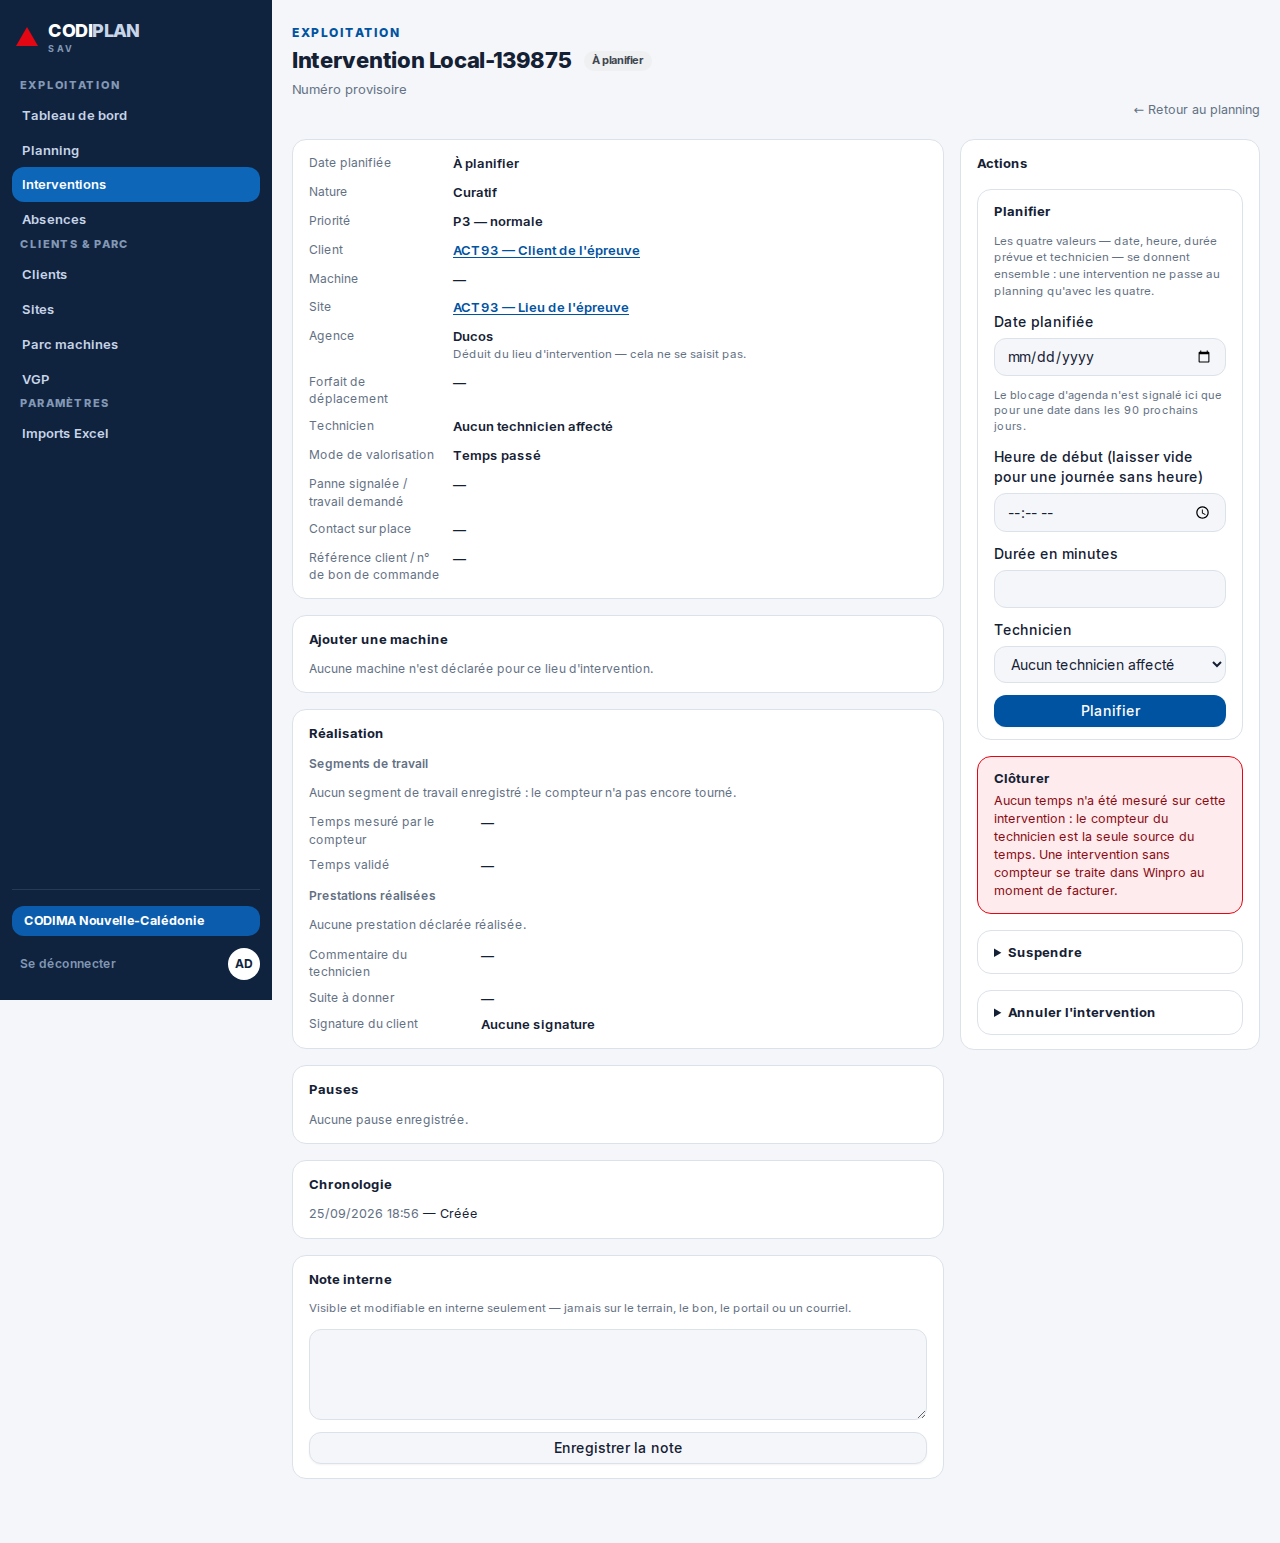
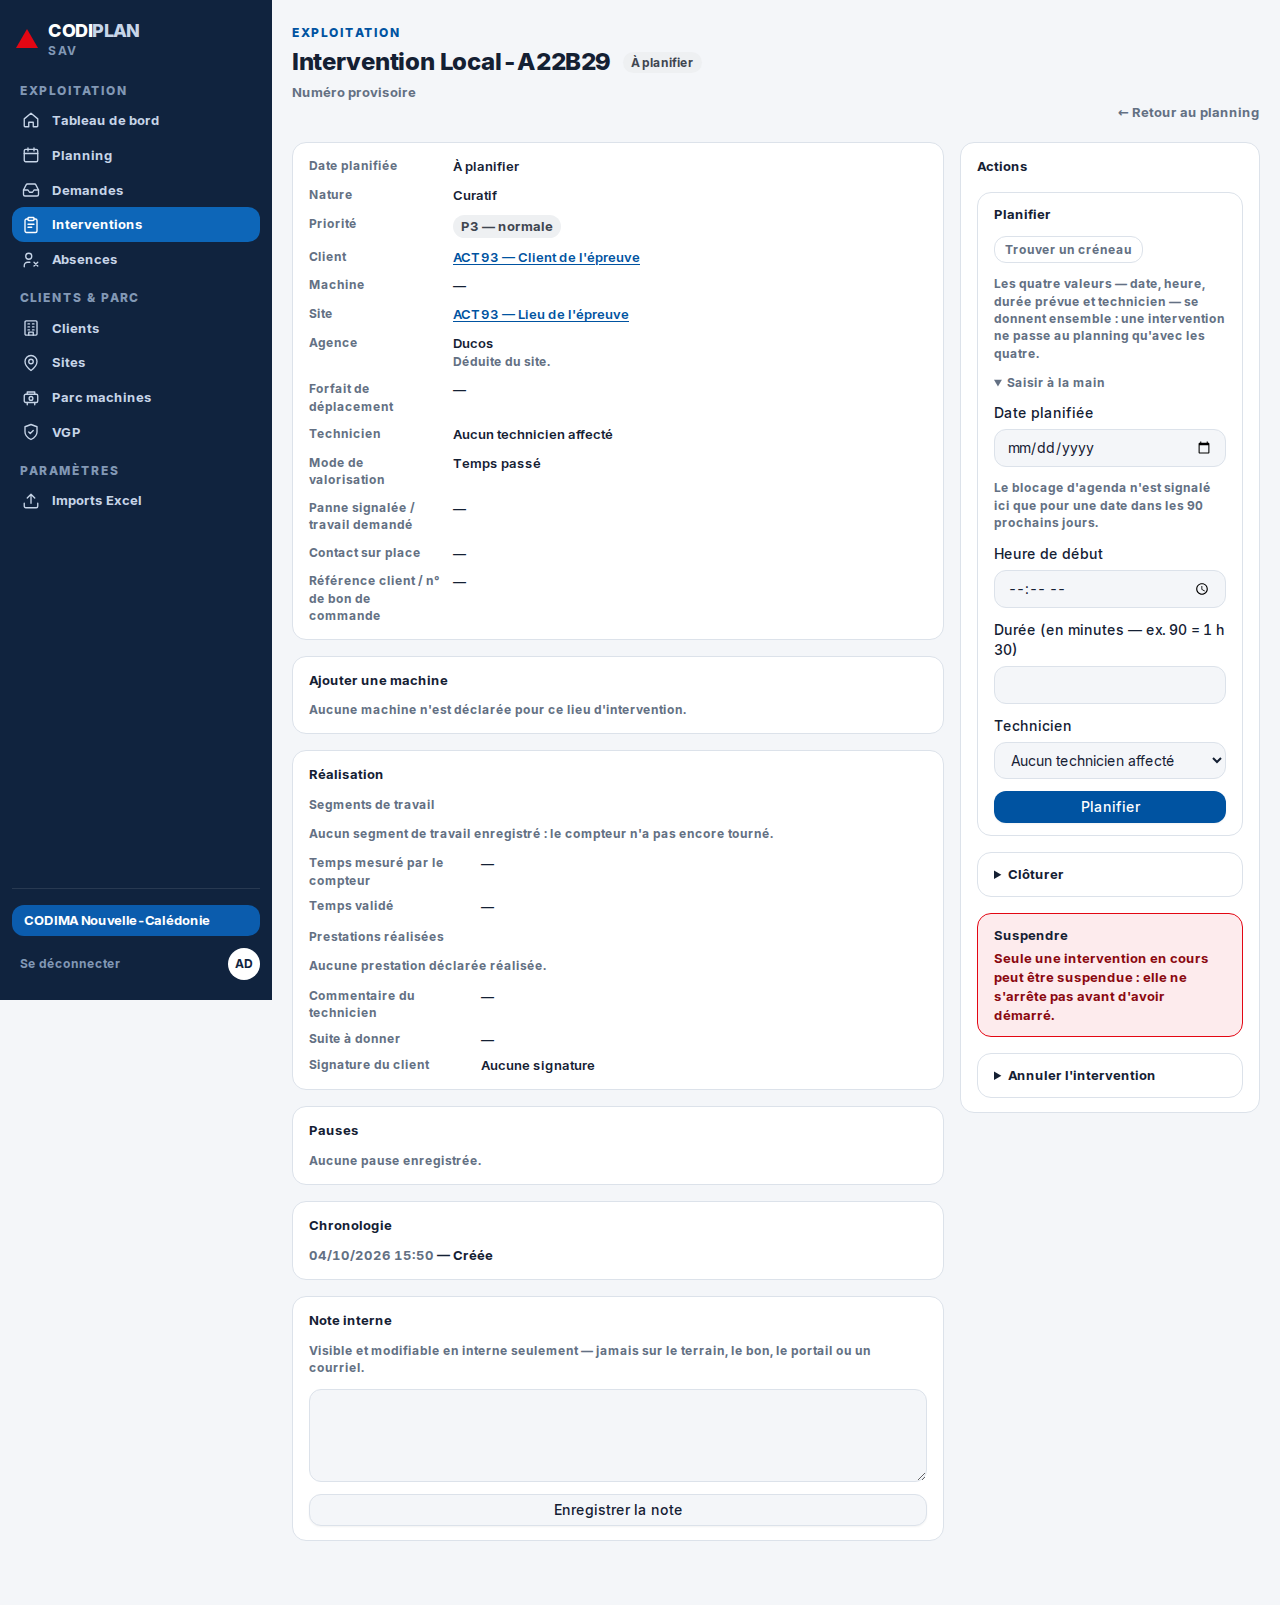
9DF-TP-CY2-MATRICE-D8 — bascule des épreuves bout en bout vers la matrice D8
fiche-intervention.spec.ts : une CLÔTURÉE n'offre plus d'Annuler (D160,
CLOTUREE terminale) ; une PLANIFIÉE refuse « Suspendre » (QT-4, pas de
suspension avant démarrage).

fiche-actions.spec.ts : la moitié « Suspendre replié et fonctionnel » de
l'épreuve 93-FICHE-ACTIONS ne peut plus se démontrer sur une « a_planifier »
(D8 le refuse désormais) — portée par une seconde fixture EN_COURS, qui n'a
aucune action principale et replie donc Suspendre comme l'ancienne rédaction
le montrait (à tort) sur a_planifier.

interventions-2.spec.ts : le scénario des deux pauses successives amène
désormais son intervention à EN_COURS avant chaque suspension, par la seule
chaîne que D8 permet (la création via /interventions/nouvelle ne pose ni
date ni créneau, donc aucune des deux « Reprise » ne retombe au même point).

rapport-terrain.spec.ts : le saut direct affectee → terminee (pour atteindre
le bon d'intervention) passe désormais par EN_COURS.

Nouveau : tests/e2e/9df-tp-cy2-matrice-d8.spec.ts — « Démarrer » ne
s'affiche plus sur une À planifier déplanifiée (technicien conservé,
SAV-05), côté terrain.

Les ~80 échecs observés sur une exécution complète de la suite (fullyParallel)
ne reproduisent PAS individuellement (vérifié sur un échantillon touchant
mise en page, VGP, écrans, courriels, saisie gardée) : pollution de scène
partagée entre fichiers exécutés en parallèle (PIEGE CONNU), sans lien avec
ce lot — voir la passation.

diff --git a/tests/e2e/9df-tp-cy2-matrice-d8.spec.ts b/tests/e2e/9df-tp-cy2-matrice-d8.spec.ts
@@ -1,0 +1,136 @@
+import { PrismaClient } from "@prisma/client";
+import { expect, test, type Page } from "@playwright/test";
+
+import { uuidv7 } from "@/lib/db/uuid";
+import { fr } from "@/lib/i18n";
+
+import { urlAdministration } from "./setup/base";
+import { reperesDeLaScene } from "./setup/reperes";
+import { COMPTE_TECHNICIEN_EPREUVE, MOT_DE_PASSE_EPREUVE } from "./setup/scene";
+
+/**
+ * 9DF-TP-CY2-MATRICE-D8 (04/10/2026, QT-4, D160) — « DÉMARRER » NE PART QUE DE
+ * CE QUE D8 PERMET, CÔTÉ TERRAIN.
+ *
+ * ## CE QUE CE FICHIER MESURE, ET QUE RIEN D'AUTRE NE MESURE
+ *
+ * Les scénarios unitaires (`peutDemarrerLeCompteur`) et d'isolation
+ * (`intervention.test.ts`) prouvent que le serveur et la base refusent la
+ * transition `A_PLANIFIER → EN_COURS`. Ils ne peuvent pas prouver que
+ * **l'écran du terrain ne propose pas un départ que la base refuserait** —
+ * c'est le cas d'une intervention DÉPLANIFIÉE (SAV-05) : le technicien reste
+ * affecté, le créneau part, le statut retombe à « À planifier », et la fiche
+ * terrain reste atteignable (seule « Planifiée » est écartée avant d'y
+ * arriver).
+ *
+ * ## SA PROPRE SCÈNE, PRÉFIXÉE `9DF-`
+ *
+ * Créée en `beforeAll`, supprimée en `afterAll` — AUCUNE ligne n'est ajoutée
+ * au semis, et rien n'est écrit sur `SCENE.*` (`tests/e2e/setup/scene.ts`).
+ * Le technicien, lui, est une identité DU SEMIS (`garnier@codima.test`,
+ * Ducos) : il faut un compte dont on connaisse le mot de passe pour se
+ * connecter côté terrain.
+ */
+
+// ÉCRIT EN BASE DANS `beforeAll`, SANS `ON CONFLICT` (gardien
+// `tests/unit/e2e-mise-en-scene.test.ts`) : la série évite que deux workers
+// ne rejouent ce `beforeAll` en même temps sur la même ligne.
+test.describe.configure({ mode: "serial" });
+
+const CLIENT_9DF = uuidv7();
+const SITE_9DF = uuidv7();
+const INTERVENTION_9DF_A_PLANIFIER = uuidv7();
+
+function admin(): PrismaClient {
+  return new PrismaClient({
+    datasources: { db: { url: urlAdministration() } },
+  });
+}
+
+test.beforeAll(async () => {
+  const reperes = await reperesDeLaScene();
+  const client = admin();
+  try {
+    const agence = await client.agence.findFirstOrThrow({
+      where: { societe_id: reperes.societeId, code: "DUCOS" },
+      select: { id: true },
+    });
+
+    await client.client.create({
+      data: {
+        id: CLIENT_9DF,
+        societe_id: reperes.societeId,
+        raison_sociale: "9DF-TP-CY2 — client",
+        actif: true,
+      },
+    });
+    await client.site.create({
+      data: {
+        id: SITE_9DF,
+        societe_id: reperes.societeId,
+        client_id: CLIENT_9DF,
+        agence_id: agence.id,
+        libelle: "9DF-TP-CY2 — site",
+      },
+    });
+
+    // INSÉRÉE DIRECTEMENT « a_planifier », TECHNICIEN CONSERVÉ — le portrait
+    // exact d'une AFFECTÉE déplanifiée par une absence (SAV-05) : la date et
+    // le créneau partent, le technicien reste (`lib/absences/depot.ts`).
+    // L'`INSERT` ne déclenche pas `intervention_cycle_de_vie`, qui ne garde
+    // que l'`UPDATE`.
+    await client.$executeRawUnsafe(
+      `INSERT INTO "intervention"
+         ("id", "societe_id", "client_id", "site_id", "agence_id", "type",
+          "statut", "technicien_id", "duree_estimee_min", "modifie_le")
+       VALUES ($1::uuid, $2::uuid, $3::uuid, $4::uuid, $5::uuid, 'curatif',
+               'a_planifier', $6::uuid, 60, now())`,
+      INTERVENTION_9DF_A_PLANIFIER,
+      reperes.societeId,
+      CLIENT_9DF,
+      SITE_9DF,
+      agence.id,
+      reperes.technicienDucos,
+    );
+  } finally {
+    await client.$disconnect();
+  }
+});
+
+test.afterAll(async () => {
+  const client = admin();
+  try {
+    await client.$executeRawUnsafe(
+      `DELETE FROM "intervention" WHERE "client_id" = $1::uuid`,
+      CLIENT_9DF,
+    );
+    await client.site.deleteMany({ where: { client_id: CLIENT_9DF } });
+    await client.client.deleteMany({ where: { id: CLIENT_9DF } });
+  } finally {
+    await client.$disconnect();
+  }
+});
+
+async function ouvrirLaSessionDuTerrain(page: Page): Promise<void> {
+  await page.goto("/connexion");
+  await page.getByLabel(fr["connexion.email"]).fill(COMPTE_TECHNICIEN_EPREUVE);
+  await page
+    .getByLabel(fr["connexion.mot_de_passe"])
+    .fill(MOT_DE_PASSE_EPREUVE);
+  await page.getByRole("button", { name: fr["connexion.valider"] }).click();
+  await expect(page).toHaveURL(/\/terrain$/);
+}
+
+test.beforeEach(async ({ page }) => {
+  await ouvrirLaSessionDuTerrain(page);
+});
+
+test("pas de « Démarrer » sur une À PLANIFIER déplanifiée — D8 n'a pas de flèche depuis ce statut", async ({
+  page,
+}) => {
+  await page.goto(`/terrain/${INTERVENTION_9DF_A_PLANIFIER}`);
+  await expect(
+    page.getByRole("button", { name: fr["terrain.compteur.demarrer"] }),
+  ).toHaveCount(0);
+  await expect(page.getByText(fr["compteur.refus.a_planifier"])).toBeVisible();
+});

diff --git a/tests/e2e/fiche-actions.spec.ts b/tests/e2e/fiche-actions.spec.ts
@@ -36,6 +36,17 @@ test.describe.configure({ mode: "serial" });
 const CLIENT_ACT93 = uuidv7();
 const SITE_ACT93 = uuidv7();
 const INTERVENTION_ACT93 = uuidv7();
+/**
+ * BASCULE (D160, QT-4, 28/09/2026, 9DF-TP-CY2-MATRICE-D8) : la matrice D8 ne
+ * permet plus de suspendre une « a_planifier » (seul EN_COURS le peut). Une
+ * SECONDE fixture, posée directement « en_cours » (l'`INSERT` ne déclenche
+ * pas `intervention_cycle_de_vie`, qui ne garde que l'`UPDATE`), porte donc
+ * désormais la moitié « Suspendre replié » de cette épreuve — `en_cours` n'a
+ * aucune action PRINCIPALE (`actionPrincipale`), donc Suspendre y est permis
+ * ET replié, exactement ce que l'ancienne rédaction démontrait sur
+ * `a_planifier` avant que D8 ne refuse cette transition-là.
+ */
+const INTERVENTION_ACT93_EN_COURS = uuidv7();
 
 function admin(): PrismaClient {
   return new PrismaClient({
@@ -82,6 +93,19 @@ test.beforeAll(async () => {
       SITE_ACT93,
       agence.id,
     );
+
+    await client.$executeRawUnsafe(
+      `INSERT INTO "intervention"
+         ("id", "societe_id", "client_id", "site_id", "agence_id", "type",
+          "statut", "duree_estimee_min", "modifie_le")
+       VALUES ($1::uuid, $2::uuid, $3::uuid, $4::uuid, $5::uuid, 'curatif',
+               'en_cours', 60, now())`,
+      INTERVENTION_ACT93_EN_COURS,
+      reperes.societeId,
+      CLIENT_ACT93,
+      SITE_ACT93,
+      agence.id,
+    );
   } finally {
     await client.$disconnect();
   }
@@ -120,7 +144,7 @@ test.beforeEach(async ({ page }) => {
   await ouvrirUneSession(page);
 });
 
-test("« Planifier » est ouvert et plein ; « Suspendre » est replié et s'ouvre au clic", async ({
+test("« Planifier » est ouvert et plein sur une À PLANIFIER", async ({
   page,
 }) => {
   await page.goto(`/interventions/${INTERVENTION_ACT93}`);
@@ -144,7 +168,38 @@ test("« Planifier » est ouvert et plein ; « Suspendre » est replié et s'ouv
   await expect(boutonPlanifier).toBeVisible();
   await expect(boutonPlanifier).toHaveClass(/bg-primary/);
 
-  // ── « SUSPENDRE » : REPLIÉ ───────────────────────────────────────────────
+  // BASCULE (D160) : « Suspendre » n'est plus REPLIÉ-MAIS-FONCTIONNEL ici —
+  // la matrice D8 refuse la suspension depuis « a_planifier » (seul EN_COURS
+  // suspend), et un refus sans `replie` ne rend plus de `<details>` du tout
+  // (voir `Action`, plus bas dans ce fichier) : une simple section rouge,
+  // nommée, à la place de l'action. Voir le scénario suivant pour la moitié
+  // « replié et s'ouvre au clic », désormais portée par une EN_COURS.
+  await expect(
+    page.locator("details", {
+      has: page.locator("summary", {
+        hasText: fr["intervention.action.suspendre"],
+      }),
+    }),
+  ).toHaveCount(0);
+  await expect(
+    page.getByText(fr["intervention.refus.suspension_sans_demarrage"]),
+  ).toBeVisible();
+
+  await capturer(page, "suspendre-replie");
+});
+
+// BASCULE (D160, QT-4, 28/09/2026, 9DF-TP-CY2-MATRICE-D8) : voir l'en-tête de
+// `INTERVENTION_ACT93_EN_COURS` — EN_COURS n'a aucune action PRINCIPALE, donc
+// « Suspendre », désormais permis, s'y affiche replié ET fonctionnel, comme
+// l'ancienne rédaction le démontrait (à tort) sur une « a_planifier ».
+test("« Suspendre » est replié et s'ouvre au clic sur une EN COURS", async ({
+  page,
+}) => {
+  await page.goto(`/interventions/${INTERVENTION_ACT93_EN_COURS}`);
+  await expect(
+    page.getByRole("heading", { level: 1 }).getByText(fr["statut.en_cours"]),
+  ).toBeVisible();
+
   const detailsSuspendre = page.locator("details", {
     has: page.locator("summary", {
       hasText: fr["intervention.action.suspendre"],
@@ -155,7 +210,7 @@ test("« Planifier » est ouvert et plein ; « Suspendre » est replié et s'ouv
   const champMotif = detailsSuspendre.locator('input[name="motif"]');
   await expect(champMotif).toBeHidden();
 
-  await capturer(page, "suspendre-replie");
+  await capturer(page, "suspendre-replie-en-cours");
 
   // ── LE CLIC SUR LE SUMMARY OUVRE SES CHAMPS ─────────────────────────────
   await detailsSuspendre.locator("summary").click();

diff --git a/tests/e2e/interventions-2.spec.ts b/tests/e2e/interventions-2.spec.ts
@@ -185,6 +185,31 @@ test("créer l'intervention de l'épreuve — fiche à planifier", async ({
 test("suspendre (pièce X), reprendre, suspendre (pièce Y) — les DEUX pauses restent lisibles", async ({
   page,
 }) => {
+  // LA MATRICE D8 (D160, QT-4, 9DF-TP-CY2-MATRICE-D8) : suspendre ne part
+  // désormais que d'EN_COURS. Ce scénario éprouve l'HISTORIQUE DES PAUSES
+  // (SAV-09), pas le chemin vers EN_COURS — déjà éprouvé ailleurs (Planifier,
+  // Transmettre, Démarrer) — la ligne y est donc amenée directement, par la
+  // seule chaîne que D8 permet, sur la MÊME connexion d'administration que
+  // le reste de ce fichier utilise pour poser sa scène.
+  const base = admin();
+  try {
+    await base.$executeRawUnsafe(
+      `UPDATE "intervention" SET "statut" = 'planifiee', "duree_estimee_min" = 60 WHERE "id" = $1::uuid`,
+      interventionPausesId,
+    );
+    await base.$executeRawUnsafe(
+      `UPDATE "intervention" SET "statut" = 'affectee', "technicien_id" = $2::uuid WHERE "id" = $1::uuid`,
+      interventionPausesId,
+      technicienId,
+    );
+    await base.$executeRawUnsafe(
+      `UPDATE "intervention" SET "statut" = 'en_cours' WHERE "id" = $1::uuid`,
+      interventionPausesId,
+    );
+  } finally {
+    await base.$disconnect();
+  }
+
   await page.goto(`/interventions/${interventionPausesId}`);
 
   // ── PREMIÈRE PAUSE — pièce X ──────────────────────────────────────────
@@ -212,6 +237,31 @@ test("suspendre (pièce X), reprendre, suspendre (pièce Y) — les DEUX pauses 
   await page
     .getByRole("button", { name: fr["intervention.action.reprendre"] })
     .click();
+  await page.waitForLoadState("networkidle");
+
+  // LA REPRISE REND LE STATUT QUE LE CRÉNEAU DICTE (L2-10) — ici « À
+  // planifier », faute de créneau posé — et la matrice D8 n'autorise la
+  // suspension que depuis EN_COURS (D160) : le travail redémarre avant
+  // d'être suspendu une seconde fois, par la seule chaîne que D8 permet.
+  const reprise = admin();
+  try {
+    await reprise.$executeRawUnsafe(
+      `UPDATE "intervention" SET "statut" = 'planifiee', "duree_estimee_min" = 60 WHERE "id" = $1::uuid`,
+      interventionPausesId,
+    );
+    await reprise.$executeRawUnsafe(
+      `UPDATE "intervention" SET "statut" = 'affectee', "technicien_id" = $2::uuid WHERE "id" = $1::uuid`,
+      interventionPausesId,
+      technicienId,
+    );
+    await reprise.$executeRawUnsafe(
+      `UPDATE "intervention" SET "statut" = 'en_cours' WHERE "id" = $1::uuid`,
+      interventionPausesId,
+    );
+  } finally {
+    await reprise.$disconnect();
+  }
+  await page.reload();
   await page.waitForLoadState("networkidle");
 
   // ── SECONDE PAUSE — pièce Y ────────────────────────────────────────────

diff --git a/tests/e2e/fiche-intervention.spec.ts b/tests/e2e/fiche-intervention.spec.ts
@@ -221,7 +221,11 @@ test("le sous-titre ne cite plus le mécanisme d'attribution du numéro", async 
   await expect(page.getByText(fr["intervention.sans_numero"])).toBeVisible();
 });
 
-test("sur une intervention CLÔTURÉE, aucun bloc refusé ne s'affiche — seule l'annulation reste possible", async ({
+// BASCULE (D160, QT-4, 28/09/2026, 9DF-TP-CY2-MATRICE-D8) : la matrice D8 ne
+// porte plus AUCUNE flèche sortante depuis CLOTUREE — l'ancienne lecture
+// d'I5 (ANNULEE a préséance sur CLOTUREE) est refermée. CLOTUREE est
+// désormais terminale au même titre qu'ANNULEE : même régime, aucune action.
+test("sur une intervention CLÔTURÉE, aucune action ne reste possible — CLOTUREE est terminale (D160)", async ({
   page,
 }) => {
   await page.goto(`/interventions/${FICHE_CLOTUREE}`);
@@ -231,26 +235,26 @@ test("sur une intervention CLÔTURÉE, aucun bloc refusé ne s'affiche — seule
   await expect(page.locator('form[action$="/cloturer"]')).toHaveCount(0);
   await expect(page.locator('form[action$="/suspendre"]')).toHaveCount(0);
   await expect(page.locator('form[action$="/reprendre"]')).toHaveCount(0);
+  await expect(page.locator('form[action$="/annuler"]')).toHaveCount(0);
   await expect(page.locator('form[action$="/machine"]')).toHaveCount(0);
 
   await expect(
     page.getByText(fr["intervention.refus.cloturee_figee"]),
   ).toBeVisible();
+});
 
-  // LE RÔLE DE L'ÉPREUVE (`adv`) PEUT ANNULER (D131, matrice complète) : le
-  // seul bloc qui reste POSSIBLE est un formulaire plein, pas une ligne.
-  // « Annuler » n'est l'action PRINCIPALE d'aucun statut (93-FICHE-ACTIONS,
-  // constat 19) : replié dans un `<details>`, il faut ouvrir son `<summary>`
-  // avant que son `<form>` ne devienne visible.
-  await page
-    .locator("details", {
-      has: page.locator("summary", {
-        hasText: fr["intervention.action.annuler"],
-      }),
-    })
-    .locator("summary")
-    .click();
-  await expect(page.locator('form[action$="/annuler"]')).toBeVisible();
+// NOUVEAU (D160, QT-4, 28/09/2026, 9DF-TP-CY2-MATRICE-D8) — « pas de
+// suspension avant démarrage » : la matrice D8 ne porte qu'une seule flèche
+// entrante vers SUSPENDUE, EN_COURS → SUSPENDUE. `FICHE_DATEE` est
+// « planifiee », donc hors de cette flèche.
+test("sur une intervention PLANIFIÉE, « Suspendre » est refusé — D8 n'a pas de démarrage", async ({
+  page,
+}) => {
+  await page.goto(`/interventions/${FICHE_DATEE}`);
+  await expect(page.locator('form[action$="/suspendre"]')).toHaveCount(0);
+  await expect(
+    page.getByText(fr["intervention.refus.suspension_sans_demarrage"]),
+  ).toBeVisible();
 });
 
 test("sur une intervention ANNULÉE, aucune action ne reste possible", async ({

diff --git a/tests/e2e/rapport-terrain.spec.ts b/tests/e2e/rapport-terrain.spec.ts
@@ -192,6 +192,14 @@ test("le bon d'intervention porte les quatre blocs saisis, et nomme ce qui reste
     datasources: { db: { url: urlAdministration() } },
   });
   try {
+    // LA MATRICE D8 (D160, 9DF-TP-CY2-MATRICE-D8) : TERMINEE ne s'atteint
+    // plus que depuis EN_COURS — les deux interventions naissent « affectee »
+    // (voir le commentaire ci-dessus), la chaîne légale passe donc par
+    // EN_COURS.
+    await admin.$executeRawUnsafe(
+      `UPDATE "intervention" SET "statut" = 'en_cours'::"StatutIntervention" WHERE "id" = ANY($1::uuid[])`,
+      [SCENE.rapportTravaillee, SCENE.rapportVierge],
+    );
     await admin.$executeRawUnsafe(
       `UPDATE "intervention" SET "statut" = 'terminee'::"StatutIntervention" WHERE "id" = ANY($1::uuid[])`,
       [SCENE.rapportTravaillee, SCENE.rapportVierge],
